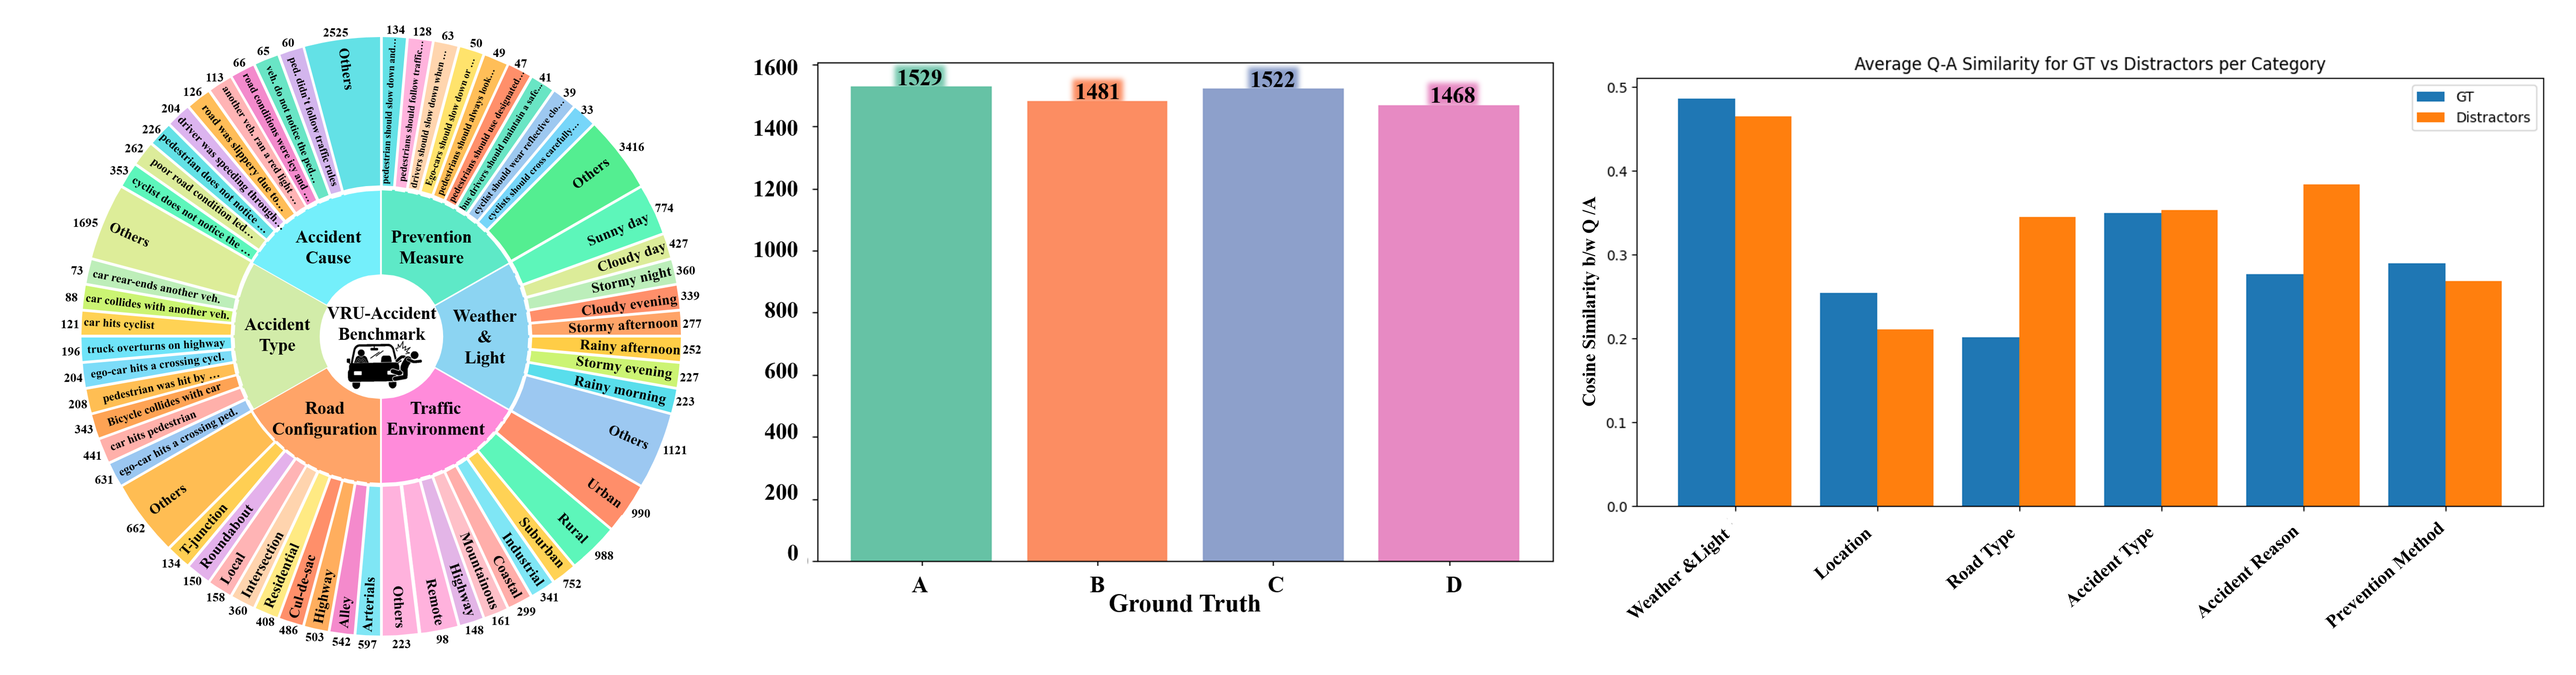
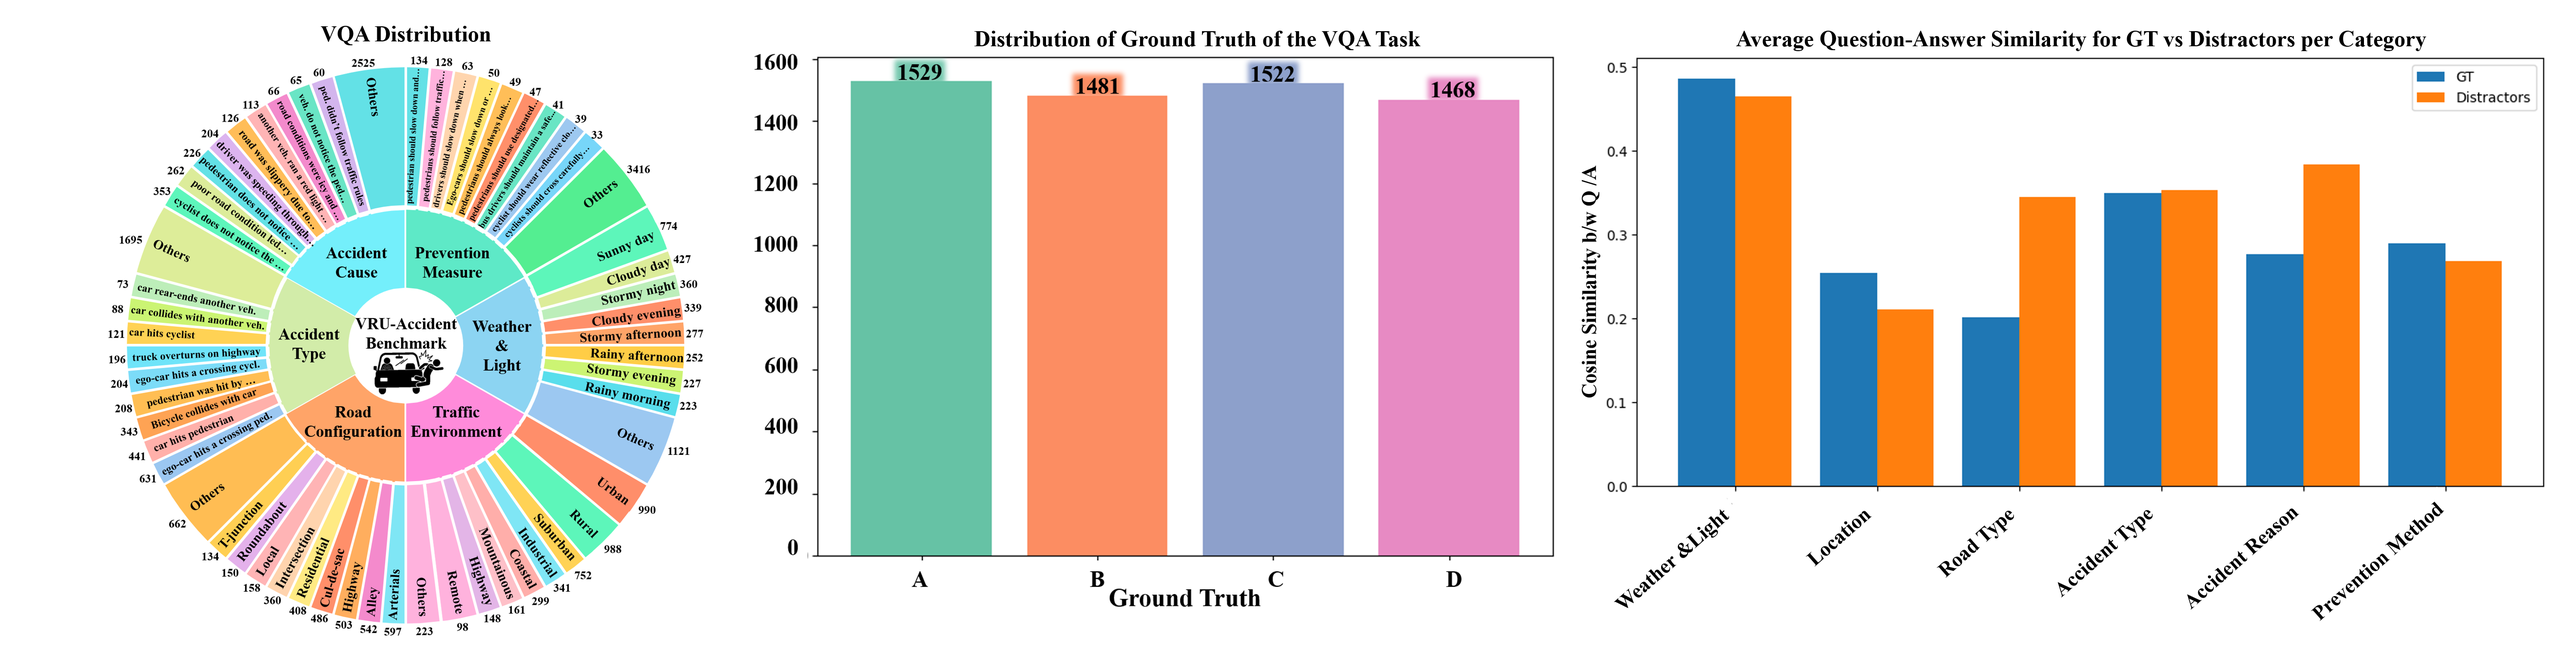
update

diff --git a/index.html b/index.html
@@ -170,7 +170,20 @@
 
 
 
+<section class="hero is-small is-light">
+  <div class="hero-body">
+    <div class="container">
+      <h2 class="title is-3">VQA Statistics</h2>
 
+      <div class="content has-text-centered">
+        <img src="static/images/VQA_Statistics.png" alt="Example 1"/>
+        <br>
+        <img src="static/images/VQA_Word_frequency.png" alt="Example 2"/>
+      </div>
+
+    </div>
+  </div>
+</section>
 
 
 
